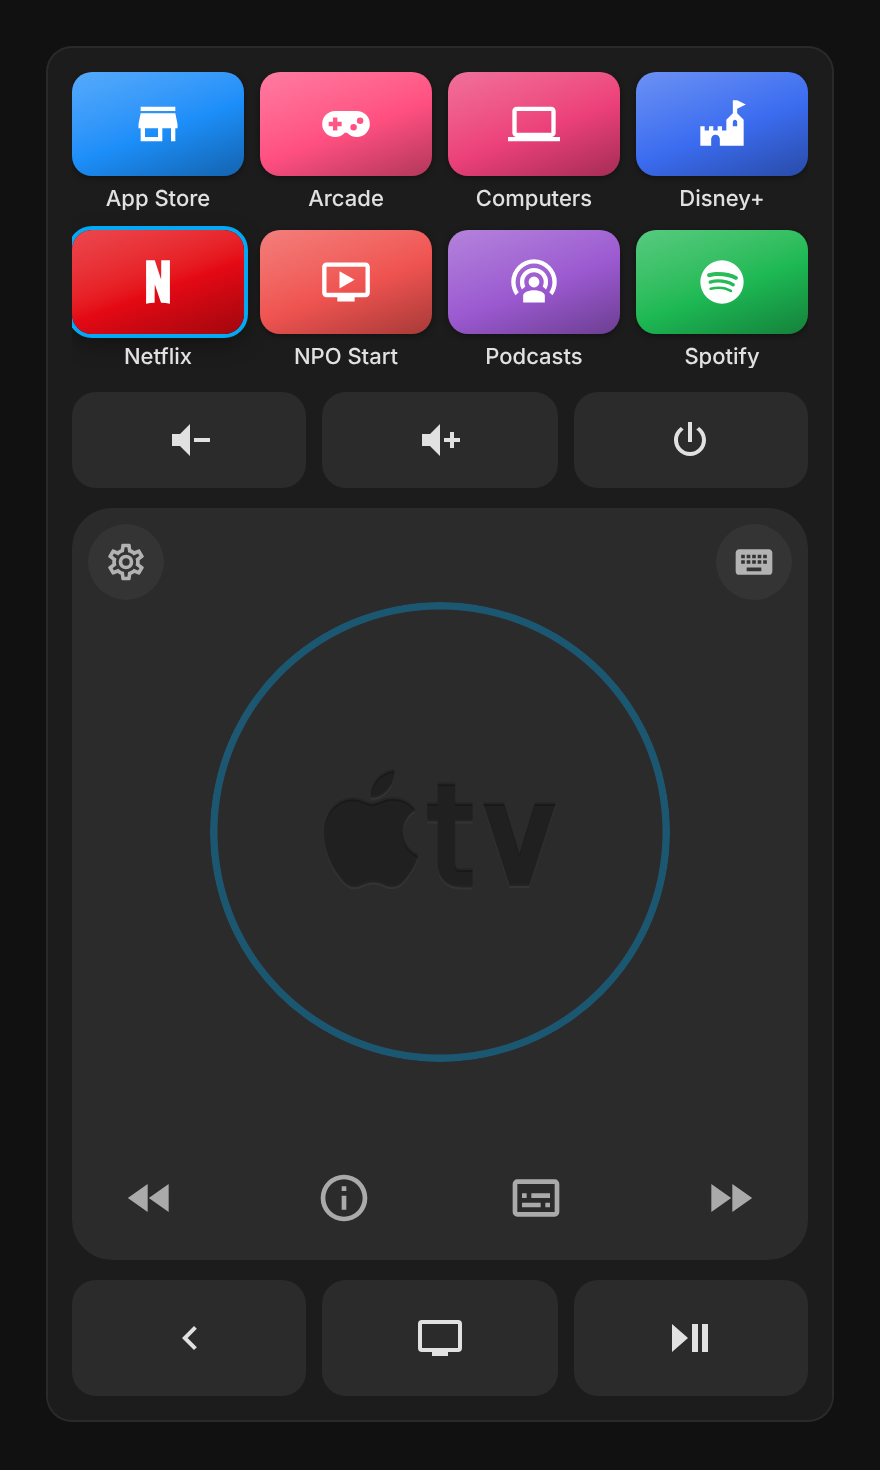
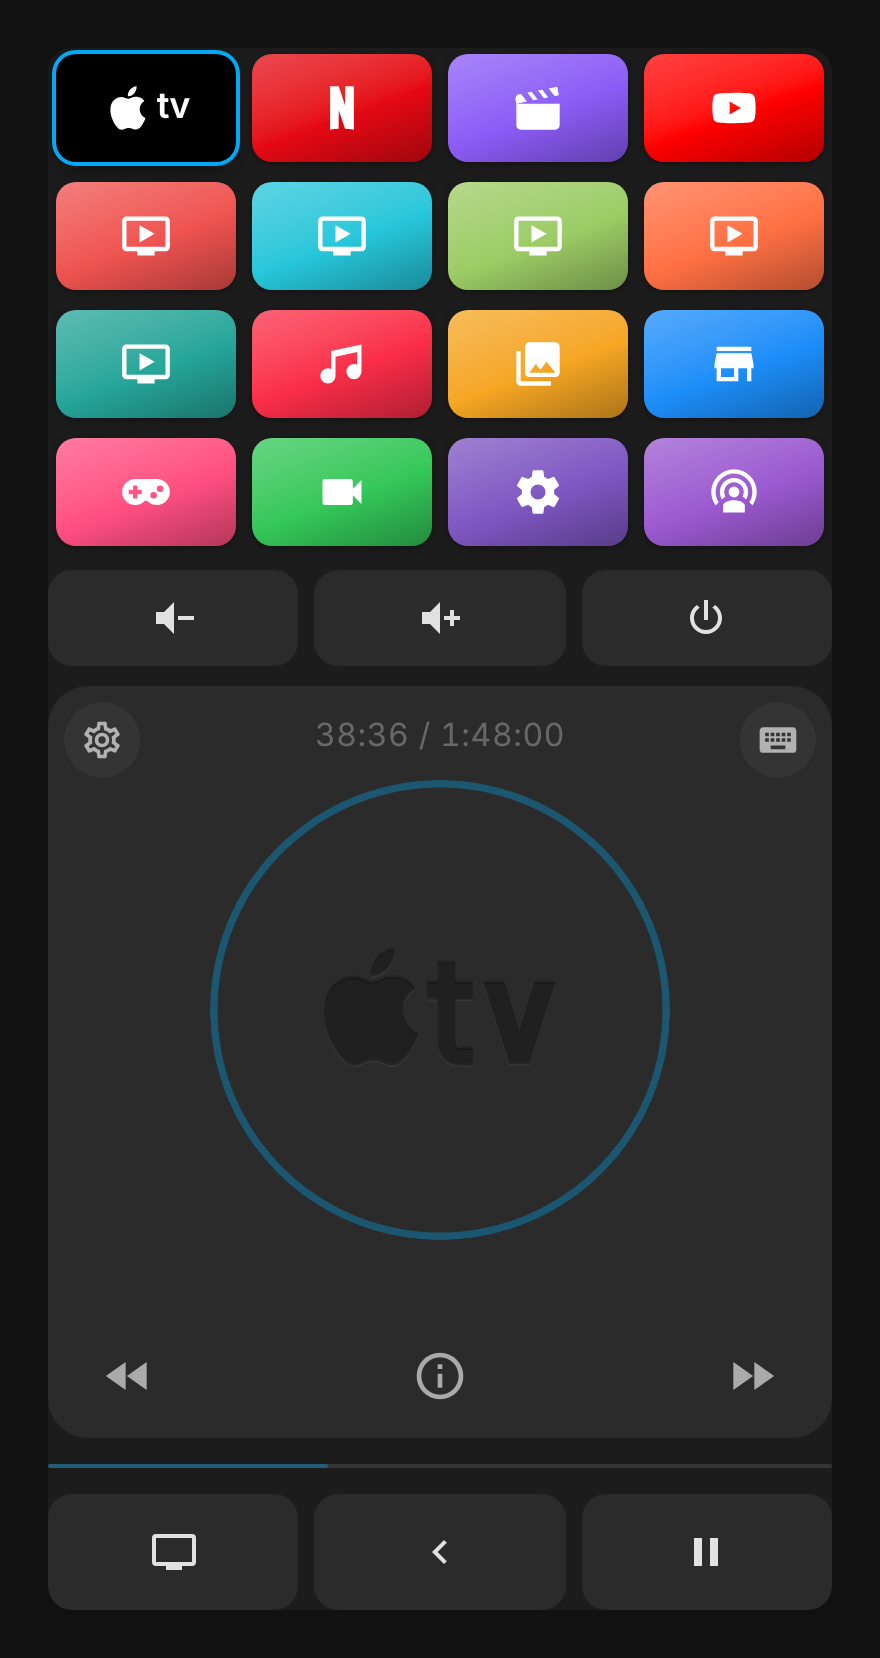
README images updated
Pictures show the current card (no Seek button, the playing app's ring no longer cut off, progress bar and time), the full visual editor, and the app list with Select mode.

Claude-Session: https://claude.ai/code/session_01BrPBf5XtdTnH7GwtJmgM8s

diff --git a/README.md b/README.md
@@ -52,19 +52,26 @@ entity: media_player.living_room_apple_tv
 The card finds the remote entity, config entry and keyboard-focus sensor of the same device itself. Editor → *App tiles →
 Check setup* shows what it found.
 
-What I run on a phone (the hero image, left):
+What I run on a phone (the hero image):
 
 ```yaml
 type: custom:atv-touchpad
 entity: media_player.living_room_apple_tv
-source_rows: 2
+source_rows: 4
+app_names: false        # icons only
 player_buttons: true    # 10 s back, info, 10 s forward
 edge_arrows: false      # every tap is select
 swipe_hold: false
+swipe_sensitivity: 1.5
 logo_text: tv
 volume_row: top
 power_position: bottom
+nav_order: home,back,play
 pad_ratio: 1.15
+side_padding: 0         # edge to edge: the card sits in a pop-up with its own frame
+top_padding: 0
+bottom_padding: 0
+show_border: false
 ```
 
 ## How it works
@@ -164,13 +171,17 @@ works) to whole-tile images: this build embeds tvOS-style tiles for them (`STOCK
 
 ### Editor
 
+Every option except the per-app maps (`circle_turn_apps`, `hold_profiles`) is in the visual editor (*Edit card*): layout and
+buttons on top, then *App tiles*, *Touchpad* (swipe and hold, circle scrubbing, player buttons) and *Advanced* (remote and
+keyboard sensor, found automatically). Only changed options are saved to YAML.
+
 ![Editor](images/editor.png)
 
-Every option except the per-app maps (`circle_turn_apps`, `hold_profiles`) is in the visual editor. *App tiles* has drag to
-reorder, the eye to hide, **Select** for bulk hide / show, **Show all apps again** and **Check setup**. Only changed options are
-saved to YAML.
+*App tiles* lists the apps your Apple TV reports: drag to reorder, the eye to hide, **Select** for bulk hide / show,
+**Show all apps again** and **Check setup**.
 
-![Select](images/editor-select.png)
+| ![App list](images/editor-apps.png) | ![Select](images/editor-select.png) |
+|---|---|
 
 ### Talking to the Apple TV
 

diff --git a/custom_components/apple_tv_remote/README.md b/custom_components/apple_tv_remote/README.md
@@ -52,19 +52,26 @@ entity: media_player.living_room_apple_tv
 The card finds the remote entity, config entry and keyboard-focus sensor of the same device itself. Editor → *App tiles →
 Check setup* shows what it found.
 
-What I run on a phone (the hero image, left):
+What I run on a phone (the hero image):
 
 ```yaml
 type: custom:atv-touchpad
 entity: media_player.living_room_apple_tv
-source_rows: 2
+source_rows: 4
+app_names: false        # icons only
 player_buttons: true    # 10 s back, info, 10 s forward
 edge_arrows: false      # every tap is select
 swipe_hold: false
+swipe_sensitivity: 1.5
 logo_text: tv
 volume_row: top
 power_position: bottom
+nav_order: home,back,play
 pad_ratio: 1.15
+side_padding: 0         # edge to edge: the card sits in a pop-up with its own frame
+top_padding: 0
+bottom_padding: 0
+show_border: false
 ```
 
 ## How it works
@@ -164,13 +171,17 @@ works) to whole-tile images: this build embeds tvOS-style tiles for them (`STOCK
 
 ### Editor
 
+Every option except the per-app maps (`circle_turn_apps`, `hold_profiles`) is in the visual editor (*Edit card*): layout and
+buttons on top, then *App tiles*, *Touchpad* (swipe and hold, circle scrubbing, player buttons) and *Advanced* (remote and
+keyboard sensor, found automatically). Only changed options are saved to YAML.
+
 ![Editor](images/editor.png)
 
-Every option except the per-app maps (`circle_turn_apps`, `hold_profiles`) is in the visual editor. *App tiles* has drag to
-reorder, the eye to hide, **Select** for bulk hide / show, **Show all apps again** and **Check setup**. Only changed options are
-saved to YAML.
+*App tiles* lists the apps your Apple TV reports: drag to reorder, the eye to hide, **Select** for bulk hide / show,
+**Show all apps again** and **Check setup**.
 
-![Select](images/editor-select.png)
+| ![App list](images/editor-apps.png) | ![Select](images/editor-select.png) |
+|---|---|
 
 ### Talking to the Apple TV
 
